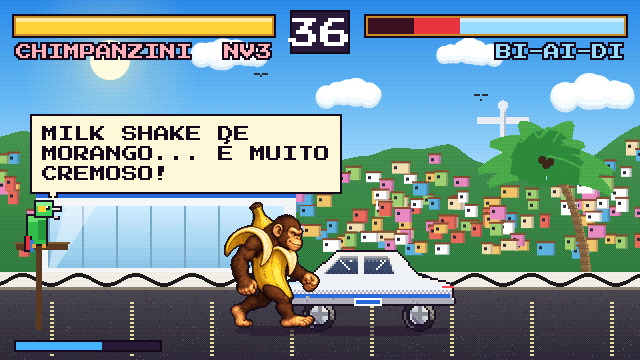
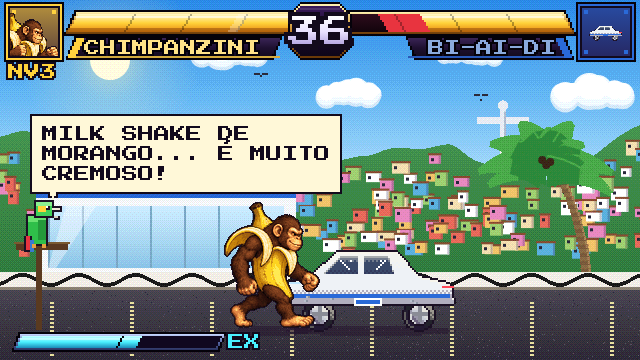
docs: HUD e pausa documentados, snapshots e arte do README atualizados
Os snapshots mudaram só nos pixels do HUD; a vida final das 13 lutas
de referência é a mesma.

Changed region(s): [[0.0, 0.0, 1.0, 0.2444], [0.0, 0.9167, 0.4062, 0.9778]]

diff --git a/docs/jogo/02-modos-e-telas.md b/docs/jogo/02-modos-e-telas.md
@@ -62,11 +62,33 @@ flowchart TD
 | **Menu** | Depois do START, o elenco desce e entram as placas inclinadas dos modos (a escolhida fica dourada, maior e com brilho correndo) e o cartão do modo, com a descrição e um lutador ao fundo. **Esc** volta para a tela de START. |
 | **Seleção** | Grade com os 8 lutadores e o nível de cada um. No modo solo, mostra as barras VEL/FOR/DEF/ALC, o especial e a barra de XP. No versus, 1P e 2P escolhem ao mesmo tempo (com cores alternativas no espelho). |
 | **VS** | Os dois lutadores entram deslizando em 2×, o "VS" pulsa e o locutor anuncia "*Tralalero Tralalà… contro… Tung tung tung Sahur!*". Enquanto isso o jogo pré-renderiza as poses dos dois. |
-| **Luta** | HUD estilo SF2: barras de vida com dano atrasado em vermelho, cronômetro de 99, marcadores de rounds, barra de especial com marcas de EX e MAX, contador de hits. **Enter** pausa. |
+| **Luta** | HUD no estilo Neo-Geo (veja abaixo). **Enter** ou **Esc** pausa. |
 | **Resultado** | Pose de vitória em 2×, frase de vitória com efeito de máquina de escrever, XP ganho e "LEVEL UP!". |
 | **Continue** | Contagem de 9 a 0 (um número por segundo). START refaz a mesma luta; quando o tempo acaba, aparece "FIM DE JOGO". |
 | **Final** | O campeão num pódio, os outros sete comemorando, fogos de artifício e créditos em rotação. |
 
+## HUD da luta
+
+Código: [`src/game/ui/hud.js`](../../src/game/ui/hud.js).
+
+| Elemento | Detalhes |
+|----------|----------|
+| **Retrato** | Rosto do lutador numa moldura com a cor dele, nos cantos de cima. Pisca branco quando apanha, fica azul quando congelado e escurece no K.O. |
+| **Barra de vida** | Inclinada, com moldura dourada, brilho correndo e marcas a cada 25%. O dano recente fica como rastro vermelho (branco nos primeiros quadros do golpe). Abaixo de 30% a barra fica vermelha e pulsa. |
+| **Placa de nome** | Placa escura inclinada com uma faixa na cor do personagem. |
+| **Medalhas de round** | Duas medalhas embaixo do retrato; viram ouro (com brilho) a cada round vencido. |
+| **Cronômetro** | Emblema chanfrado com borda dourada entre as barras; nos últimos 10 s fica vermelho e pulsa. No treino mostra "--". |
+| **Barra de especial** | Embaixo, dividida em dois segmentos: **EX** na metade e **MAX** cheia, com brilho de arco-íris. |
+| **Combo** | Número grande que "pula" a cada acerto, com "COMBO / HITS", e some aos poucos. |
+| **Avisos** | ROUND, FIGHT!, K.O., TEMPO! e BONUS STAGE aparecem sobre uma faixa que abre do centro; no fim do round, uma placa com "X VENCE" (ou EMPATE) e "PERFEITO!" com brilhos. |
+
 ## Pausa
 
-Durante a luta, **Enter** (ou **Esc**, ou START no toque) abre a pausa com **CONTINUAR** e **SAIR PARA O MENU**.
+Durante a luta, **Enter** (ou **Esc**, ou START no toque) abre a pausa: a luta escurece, a música abaixa e aparece um painel com os retratos dos dois lutadores, o round e o tempo.
+
+| Opção | O que faz |
+|-------|-----------|
+| **CONTINUAR** | Volta para a luta (Esc também). |
+| **REINICIAR LUTA** | Recomeça do round 1, com vida cheia e barras de especial vazias. |
+| **HITBOXES** | Liga/desliga o visualizador de hitboxes (o mesmo da tecla Tab). |
+| **SAIR PARA O MENU** | Pede confirmação ("O progresso será perdido.") antes de voltar ao título. |

diff --git a/docs/tecnico/03-renderizacao-e-sprites.md b/docs/tecnico/03-renderizacao-e-sprites.md
@@ -7,6 +7,7 @@
 - O conteúdo **HD** (atlas dos personagens e cenários) é guardado em 2× e desenhado pela metade, aproveitando a resolução cheia de 640×360. Um canvas marcado com `hd` (sprites) ou `st.hd` (cenários) é desenhado com fator 0,5.
 - O texto usa `txt()` em [`core/canvas.js`](../../src/game/core/canvas.js): contorno de 8 direções e, nos tamanhos grandes, uma sombra extra.
 - A Press Start 2P não tem maiúsculas acentuadas. `txt()` troca `Á É Í Ó Ú Â Ê Ô Ã Õ À…` pela letra base e desenha o acento em pixel art em cima (a fonte é monoespaçada, então cada letra ocupa exatamente `size` px).
+- O HUD da luta (barras, retratos, cronômetro, barras de especial, combo e avisos) fica em [`ui/hud.js`](../../src/game/ui/hud.js), e os retratos recortados da cabeça do sprite (usados no HUD, na pausa e nas cutscenes) em [`ui/portrait.js`](../../src/game/ui/portrait.js).
 - Elementos de interface no estilo arcade (placas inclinadas, molduras, brilhos de estrela, texto com franja cromática, glitch, cortinas) ficam em [`ui/arcade.js`](../../src/game/ui/arcade.js).
 
 ## Arte original

diff --git a/docs/tecnico/02-motor-e-loop.md b/docs/tecnico/02-motor-e-loop.md
@@ -60,7 +60,7 @@ Uma cena é um objeto simples com `update()`, `draw()` e, opcionalmente, `enter(
 | `Options`, `Moves` | `scenes/options.js`, `scenes/moves.js` | objeto |
 | `Select`, `CarSelect` | `scenes/select.js`, `scenes/car-select.js` | objeto |
 | `VS(c1, c2, cenário, opts, rótulo)` | `scenes/vs.js` | fábrica |
-| `FightScene(fight, aoTerminar)` | `scenes/fight-scene.js` | fábrica (pausa + Tab) |
+| `FightScene(fight, aoTerminar)` | `scenes/fight-scene.js` | fábrica (pausa com continuar/reiniciar/hitboxes/sair + Tab) |
 | `Result(f, lado, opts, xp)` | `scenes/result.js` | fábrica |
 | `Travel(de, para, próximo)` | `scenes/travel.js` | fábrica |
 | `Cutscene(painéis, próximo, rival)` | `scenes/cutscene.js` | fábrica |

diff --git a/docs/tecnico/01-arquitetura.md b/docs/tecnico/01-arquitetura.md
@@ -64,7 +64,7 @@ brainrot-battaglia/
 │       ├── stages/               # kit de pintura + um arquivo por cenário
 │       ├── world/                # mapa de Brainrotália
 │       ├── fx/                   # partículas e popups
-│       ├── ui/                   # logo, widgets, kit de UI arcade e arte da Tupinicode
+│       ├── ui/                   # logo, widgets, HUD da luta, retratos, kit de UI arcade e arte da Tupinicode
 │       ├── progression/          # XP e níveis
 │       ├── scenes/               # abertura, todas as telas e o fluxo da história
 │       └── data/atlas-frames.js  # gerado: molduras dos atlas
